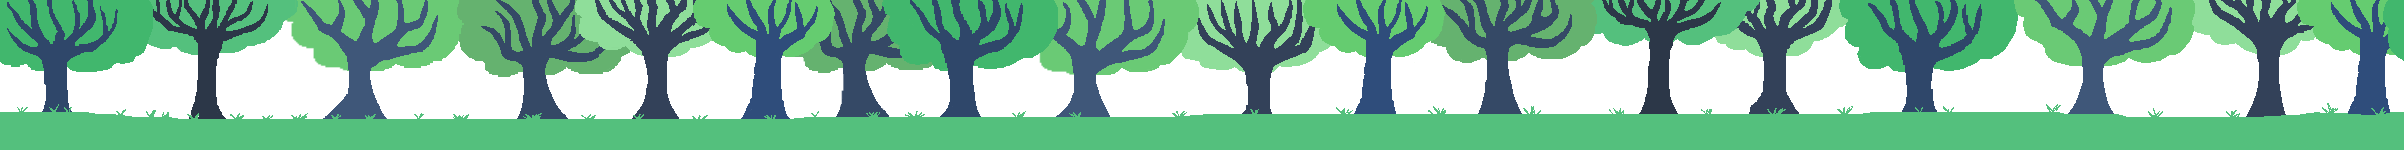
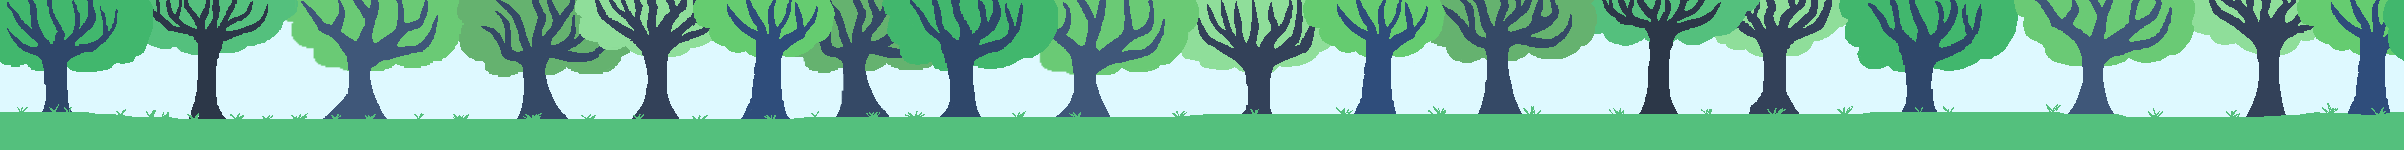
Turned Setting_foreground to a transparent picture

diff --git a/project.py b/project.py
@@ -115,7 +115,7 @@ class Obstacle:
         self.rect.x = Screen_Width
 
     def update(self):
-        self.rect.x -= game_speed
+        self.rect.x -= game_speed + 10
         if self.rect.x < -self.rect.width:
                 obstacles.pop()
 
@@ -200,7 +200,7 @@ def main():
         Screen.blit(Foreground, (x_pos_set, y_pos_set))
         Screen.blit(Foreground, (image_width + x_pos_set, y_pos_set))
         if x_pos_set <= -image_width:
-            Screen.blit(Foreground, (image_width + x_pos_set, y_pos_set))
+            Screen.blit(Background, (image_width + x_pos_set, y_pos_set))
             x_pos_set = 0
         x_pos_set -= game_speed
 
